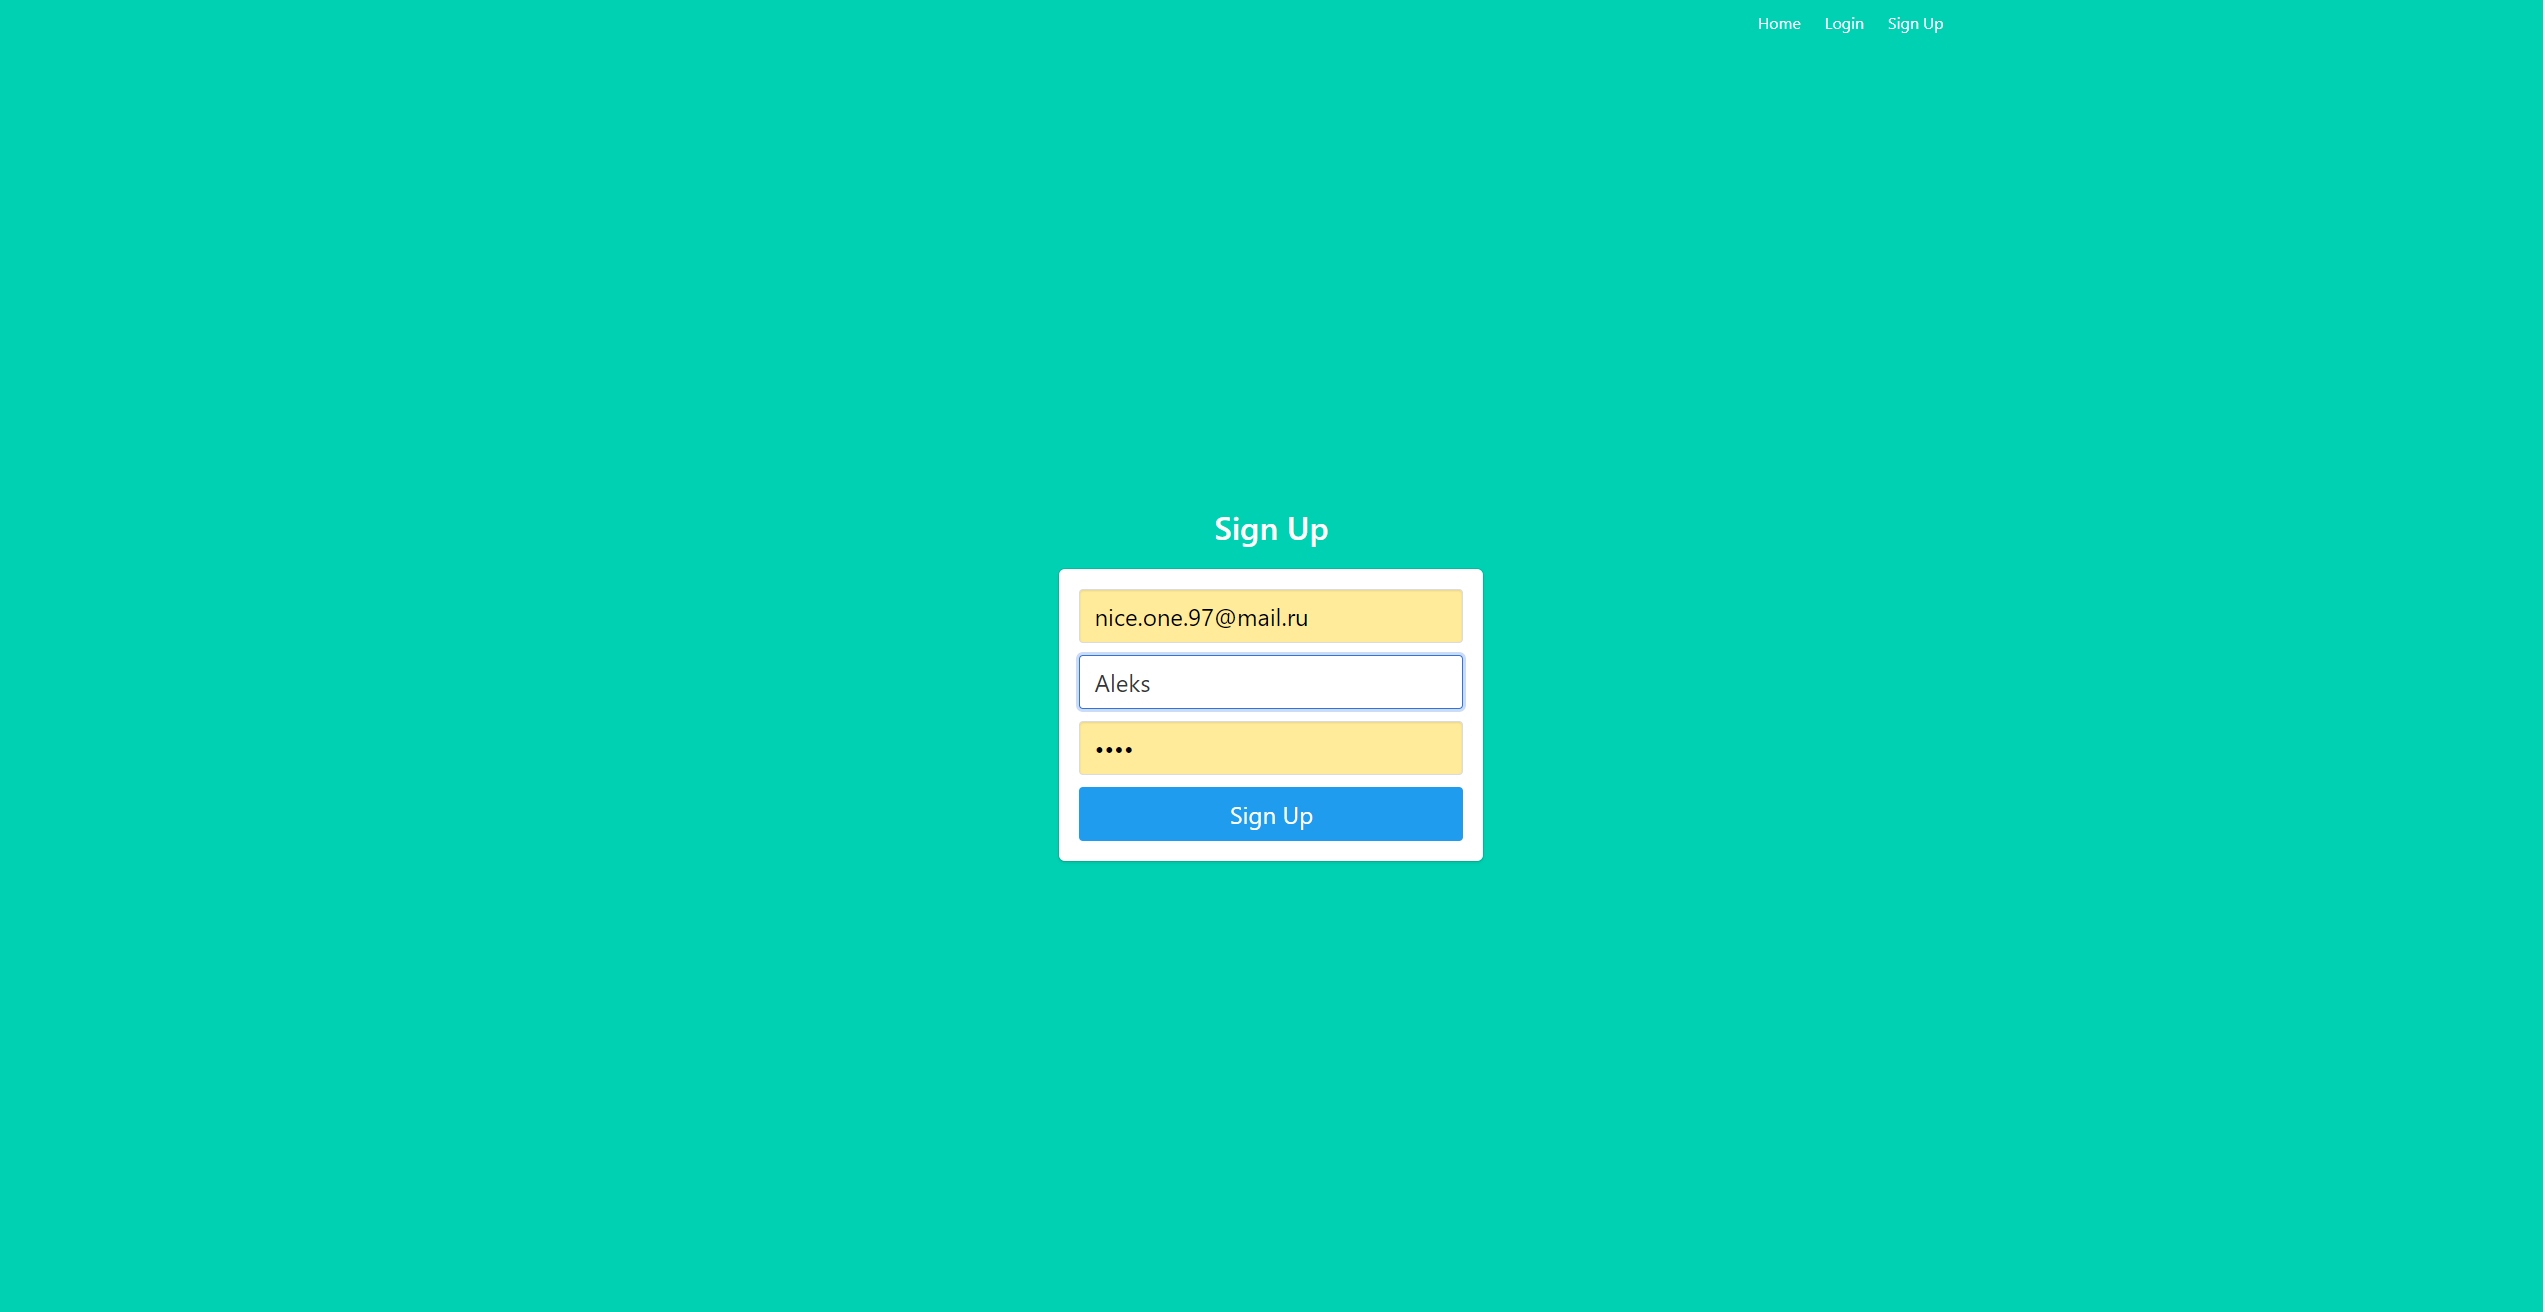
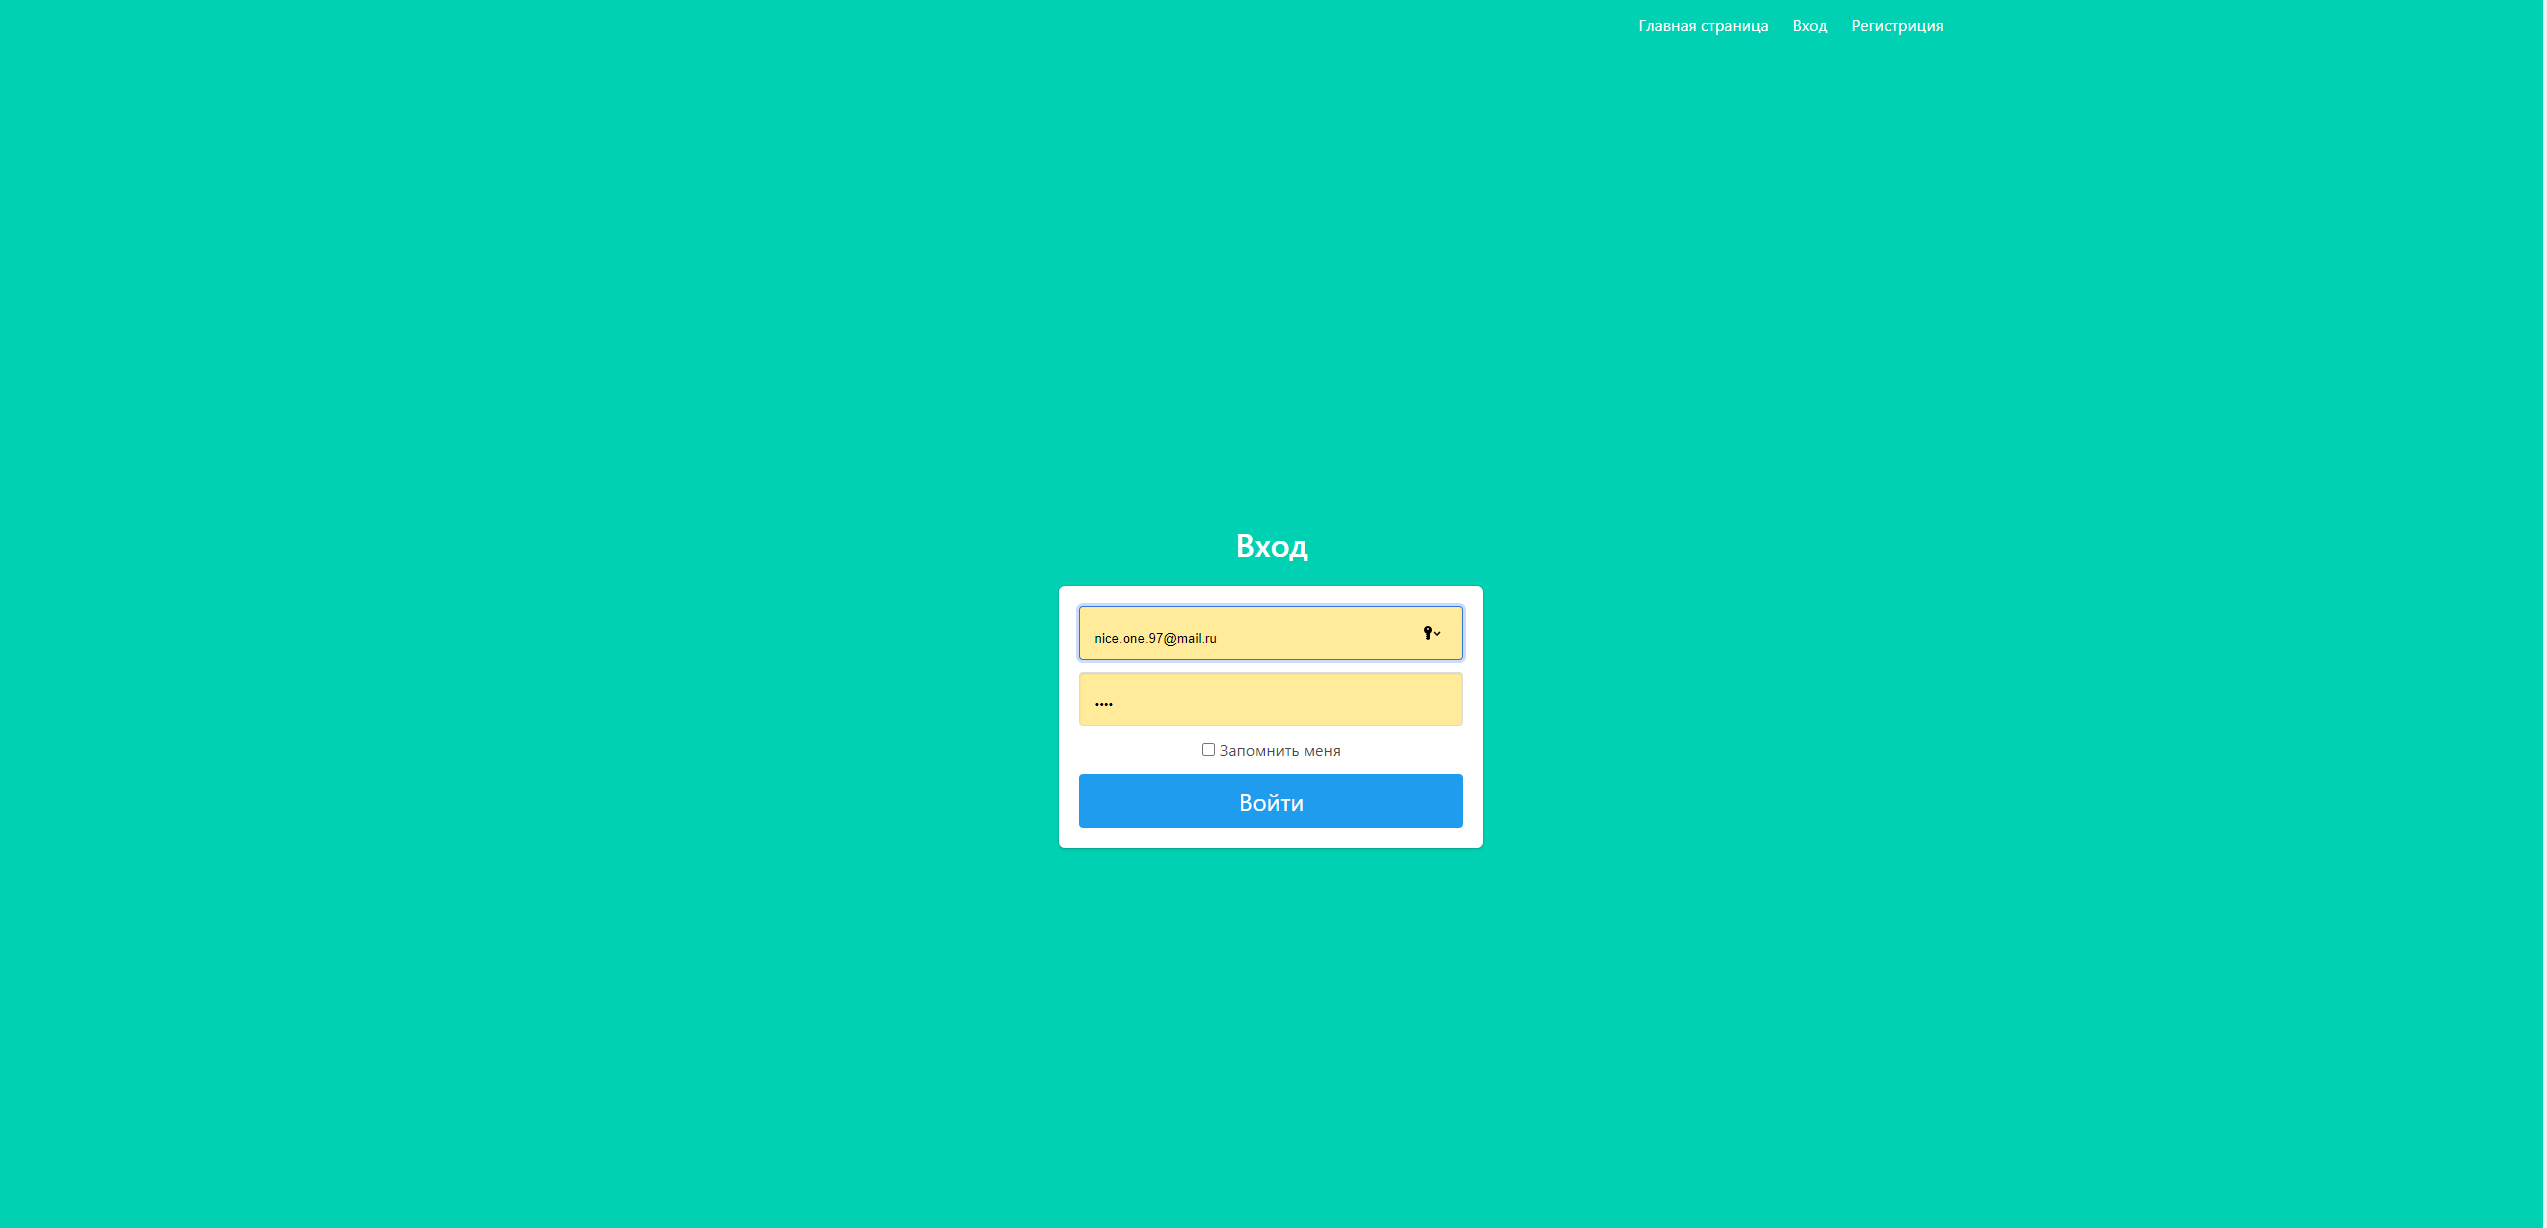
ScreenShots

diff --git a/project/templates/base.html b/project/templates/base.html
@@ -19,24 +19,24 @@
                     <div id="navbarMenuHeroA" class="navbar-menu">
                         <div class="navbar-end">
                             <a href="{{ url_for('main.index') }}" class="navbar-item">
-                                Home
+                                Главная страница
                             </a>
                             {% if current_user.is_authenticated %}
                             <a href="{{ url_for('main.profile') }}" class="navbar-item">
-                                Profile
+                                Профиль
                             </a>
                             {% endif %}
                             {% if not current_user.is_authenticated %}
                             <a href="{{ url_for('auth.login') }}" class="navbar-item">
-                                Login
+                                Вход
                             </a>
                             <a href="{{ url_for('auth.signup') }}" class="navbar-item">
-                                Sign Up
+                                Регистриция
                             </a>
                             {% endif %}
                             {% if current_user.is_authenticated %}
                             <a href="{{ url_for('auth.logout') }}" class="navbar-item">
-                                Logout
+                                Выход
                             </a>
                             {% endif %}
                         </div>

diff --git a/project/templates/signup.html b/project/templates/signup.html
@@ -2,12 +2,12 @@
 
 {% block content %}
 <div class="column is-4 is-offset-4">
-    <h3 class="title">Sign Up</h3>
+    <h3 class="title">Регистрация</h3>
     <div class="box">
         {% with messages = get_flashed_messages() %}
         {% if messages %}
             <div class="notification is-danger">
-                {{ messages[0] }}. Go to <a href="{{ url_for('auth.login') }}">login page</a>.
+                {{ messages[0] }}. Go to <a href="{{ url_for('auth.login') }}">Вход</a>.
             </div>
         {% endif %}
         {% endwith %}
@@ -30,7 +30,7 @@
                 </div>
             </div>
 
-            <button class="button is-block is-info is-large is-fullwidth">Sign Up</button>
+            <button class="button is-block is-info is-large is-fullwidth">Зарегистрироваться</button>
         </form>
     </div>
 </div>

diff --git a/project/templates/login.html b/project/templates/login.html
@@ -2,7 +2,7 @@
 
 {% block content %}
 <div class="column is-4 is-offset-4">
-    <h3 class="title">Login</h3>
+    <h3 class="title">Вход</h3>
     <div class="box">
         {% with messages = get_flashed_messages() %}
         {% if messages %}
@@ -26,10 +26,10 @@
             <div class="field">
                 <label class="checkbox">
                     <input type="checkbox">
-                    Remember me
+                    Запомнить меня
                 </label>
             </div>
-            <button class="button is-block is-info is-large is-fullwidth">Login</button>
+            <button class="button is-block is-info is-large is-fullwidth">Войти</button>
         </form>
     </div>
 </div>

diff --git a/project/templates/profile.html b/project/templates/profile.html
@@ -2,6 +2,6 @@
 
 {% block content %}
 <h1 class="title">
-  Welcome, {{ name }}!
+  Добро пожаловать, {{ name }}!
 </h1>
 {% endblock %}
